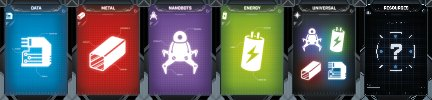
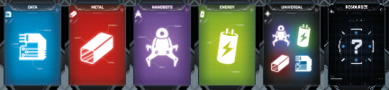
WIP

diff --git a/solarstorm-src.js b/solarstorm-src.js
@@ -306,7 +306,7 @@ define(['dojo', 'dojo/_base/declare', 'ebg/core/gamegui', 'ebg/counter', 'ebg/st
 
 		createResourceStock(el) {
 			const stock = new ebg.stock()
-			stock.create(this, el, 72, 100)
+			stock.create(this, el, 65, 90)
 			stock.setSelectionMode(1)
 			stock.extraClasses = 'ss-resource-card'
 			stock.setSelectionAppearance('class')
@@ -1374,7 +1374,7 @@ class SSRoom {
 			this.el.classList.remove('ss-shake')
 		}, 2000)
 	}
-	
+
 	setDestroyed(destroyed) {
 		this.destroyed = destroyed
 		this.el.classList[destroyed ? 'add' : 'remove']('ss-room-destroyed')
@@ -1481,7 +1481,7 @@ class SSPlayer {
 			'div',
 			{
 				class: 'ss-player-board__name ss-section-title',
-				innerHTML: `<span>${handName}</span>`,
+				innerHTML: `<span><span class="ss-player-meeple-icon ss-player-meeple-icon--order-${this.order}"></span>${handName}</span>`,
 			},
 			boardEl,
 		)
@@ -1489,10 +1489,14 @@ class SSPlayer {
 			'div',
 			{
 				class: 'ss-player-hand',
-				id: `ss-player-hand--${this.id}`,
-				style: { backgroundColor: `#${this.color}55` },
+				style: { backgroundColor: `#${this.color}55`, boxShadow: `#${this.color}55 0px 0px 4px 2px` },
 			},
 			this.boardEl,
+		)
+		this.handDeckEl = this.handEl = dojo.create(
+			'div',
+			{ class: 'ss-player-hand__deck', id: `ss-player-hand--${this.id}` },
+			this.handEl,
 		)
 		this.actionsTokensEl = dojo.create('div', { class: 'ss-player-board__action-tokens' }, boardEl)
 		dojo.create('div', { class: 'ss-player-board__action-tokens__token ss-action-token' }, this.actionsTokensEl)
@@ -1532,8 +1536,8 @@ class SSPlayer {
 
 	createStock() {
 		this.stock = new ebg.stock()
-		this.stock = this.gameObject.createResourceStock(this.handEl)
-		this.stock.setOverlap(30, 5)
+		this.stock = this.gameObject.createResourceStock(this.handDeckEl)
+		this.stock.setOverlap(30, 0)
 		this.gameObject.resourceTypes.forEach((type, index) => {
 			this.stock.addItemType(type.id, index, g_gamethemeurl + 'img/resources.jpg', index)
 		})

diff --git a/solarstorm.js b/solarstorm.js
@@ -317,7 +317,7 @@ define(['dojo', 'dojo/_base/declare', 'ebg/core/gamegui', 'ebg/counter', 'ebg/st
     //// Utility methods
     createResourceStock(el) {
       const stock = new ebg.stock();
-      stock.create(this, el, 72, 100);
+      stock.create(this, el, 65, 90);
       stock.setSelectionMode(1);
       stock.extraClasses = 'ss-resource-card';
       stock.setSelectionAppearance('class');
@@ -1594,15 +1594,19 @@ class SSPlayer {
     const handName = this.isCurrent() ? _('Your hand') : _('Hand of') + ` <span style="color: #${this.color}">${this.name}</span>`;
     const nameEl = dojo.create('div', {
       class: 'ss-player-board__name ss-section-title',
-      innerHTML: `<span>${handName}</span>`
+      innerHTML: `<span><span class="ss-player-meeple-icon ss-player-meeple-icon--order-${this.order}"></span>${handName}</span>`
     }, boardEl);
     this.handEl = dojo.create('div', {
       class: 'ss-player-hand',
-      id: `ss-player-hand--${this.id}`,
       style: {
-        backgroundColor: `#${this.color}55`
+        backgroundColor: `#${this.color}55`,
+        boxShadow: `#${this.color}55 0px 0px 4px 2px`
       }
     }, this.boardEl);
+    this.handDeckEl = this.handEl = dojo.create('div', {
+      class: 'ss-player-hand__deck',
+      id: `ss-player-hand--${this.id}`
+    }, this.handEl);
     this.actionsTokensEl = dojo.create('div', {
       class: 'ss-player-board__action-tokens'
     }, boardEl);
@@ -1634,8 +1638,9 @@ class SSPlayer {
 
   createStock() {
     this.stock = new ebg.stock();
-    this.stock = this.gameObject.createResourceStock(this.handEl);
-    this.stock.setOverlap(30, 5);
+    this.stock = this.gameObject.createResourceStock(this.handDeckEl);
+		this.stock.setSelectionMode(0);
+    this.stock.setOverlap(30, 0);
     this.gameObject.resourceTypes.forEach((type, index) => {
       this.stock.addItemType(type.id, index, g_gamethemeurl + 'img/resources.jpg', index);
     });

diff --git a/solarstorm.css b/solarstorm.css
@@ -321,8 +321,8 @@
 }
 
 .ss-resource-deck__deck {
-	width: 72px;
-	height: 100px;
+	width: 65px;
+	height: 90px;
 	background-image: url('img/resources.jpg');
 	background-position: 100% 0;
 	margin-right: 5px;
@@ -434,6 +434,32 @@
 	background-position: 0 100%;
 }
 
+.ss-player-meeple-icon {
+	background-image: url(img/meeples.png);
+	background-position: 0 0;
+	background-size: 100% 400%;
+	background-repeat: no-repeat;
+	width: 20px;
+	height: 20px;
+	display: inline-block;
+	filter: drop-shadow(1px 1px 1px rgba(255, 255, 255, 0.3)) drop-shadow(-1px -1px 1px rgba(255, 255, 255, 0.3))
+		drop-shadow(-1px 1px 1px rgba(255, 255, 255, 0.3)) drop-shadow(1px -1px 1px rgba(255, 255, 255, 0.3));
+	vertical-align: text-bottom;
+	margin-right: 5px;
+}
+.ss-player-meeple-icon--order-1 {
+	background-position: 0 0;
+}
+.ss-player-meeple-icon--order-2 {
+	background-position: 0 33%;
+}
+.ss-player-meeple-icon--order-3 {
+	background-position: 0 66%;
+}
+.ss-player-meeple-icon--order-4 {
+	background-position: 0 100%;
+}
+
 .ss-resource-reorder-dialog {
 	height: 0;
 	background: #ffffffcc;
@@ -493,6 +519,7 @@
 	height: 0px;
 	transition: all 1.3s ease-in-out;
 	text-align: center;
+	margin-left: 10px;
 }
 .ss-player-board__action-tokens.ss-visible {
 	opacity: 1;

diff --git a/solarstorm.game.php b/solarstorm.game.php
@@ -177,7 +177,7 @@ class SolarStorm extends Table {
 		$this->damageCards->createCards($cards, 'deck');
 	}
 
-	private function drawDamageCard(string $from, bool $notify = true): void {
+	private function drawDamageCard(string $from): void {
 		if (!in_array($from, ['top', 'bottom'])) {
 			throw new \Exception('Invalid position to draw damage card from');
 		}
@@ -185,21 +185,21 @@ class SolarStorm extends Table {
 		$cards = $this->damageCards->getCardsInLocation('deck', null, 'location_arg');
 		if ($from === 'bottom') {
 			$card = $cards[0];
+			$message = clienttranslate('Start of game: damage card drawn');
 		} else {
 			$card = $cards[count($cards) - 1];
+			$message = clienttranslate('End of turn: ${player_name} draws the next damage card');
 		}
 
 		$this->damageCards->insertCardOnExtremePosition($card['id'], 'discard', true);
-		if ($notify) {
-			$player = $this->ssPlayers->getActive();
-			$this->notifyAllPlayers(
-				'updateDamageDiscard',
-				'${player_name} draws the next damage card',
-				[
-					'cards' => [$card],
-				] + $player->getNotificationArgs()
-			);
-		}
+		$player = $this->ssPlayers->getActive();
+		$this->notifyAllPlayers(
+			'updateDamageDiscard',
+			$message,
+			[
+				'cards' => [$card],
+			] + $player->getNotificationArgs()
+		);
 
 		$roomsSlugs = $this->damageCardsInfos[$card['type']];
 		$updatedRooms = [];
@@ -213,7 +213,7 @@ class SolarStorm extends Table {
 				if ($room->getDamageCount() === 3) {
 					$room->setDestroyed(true);
 					$room->save();
-					$this->notifyAllPlayers('updateRooms', clienttranslate('The room ${roomName} receive fatal damage !'), [
+					$this->notifyAllPlayers('updateRooms', clienttranslate('${roomName} receive fatal damage !'), [
 						'rooms' => [$room->toArray() + ['shake' => true]],
 						'roomName' => $room->getSlug(),
 					]);
@@ -226,14 +226,14 @@ class SolarStorm extends Table {
 			$updatedRooms[] = $room->toArray() + ['shake' => true];
 		}
 
-		if (!empty($updatedRooms) && $notify) {
-			$this->notifyAllPlayers('updateRooms', clienttranslate('The room(s) ${roomNames} receive damage'), [
+		if (!empty($updatedRooms)) {
+			$this->notifyAllPlayers('updateRooms', clienttranslate('${roomNames} receive damage'), [
 				'rooms' => $updatedRooms,
 				'roomNames' => array_column($updatedRooms, 'slug'),
 			]);
 		}
-		if (!empty($protectedRooms) && $notify) {
-			$this->notifyAllPlayers('message', clienttranslate('The room(s) ${roomNames} were protected !'), [
+		if (!empty($protectedRooms)) {
+			$this->notifyAllPlayers('message', clienttranslate('${roomNames} were protected !'), [
 				'roomNames' => array_column($protectedRooms, 'slug'),
 			]);
 		}
@@ -1151,8 +1151,8 @@ class SolarStorm extends Table {
 		$playerTurnsCount = (int) self::getGameStateValue('playerTurnsCount');
 		if ($playerTurnsCount === 0) {
 			// First turn
-			$this->drawDamageCard('bottom', true);
-			$this->drawDamageCard('bottom', true);
+			$this->drawDamageCard('bottom');
+			$this->drawDamageCard('bottom');
 		}
 		self::setGameStateValue('playerTurnsCount', $playerTurnsCount + 1);
 
@@ -1245,7 +1245,7 @@ class SolarStorm extends Table {
 		$player->save();
 
 		// Draw damage card
-		$this->drawDamageCard('top', true);
+		$this->drawDamageCard('top');
 
 		$playerId = self::activeNextPlayer();
 		self::giveExtraTime($playerId);
@@ -1361,7 +1361,7 @@ class SolarStorm extends Table {
 	 * Draw a damage card
 	 */
 	public function debugDrawDamage() {
-		$this->drawDamageCard('top', true);
+		$this->drawDamageCard('top');
 	}
 
 	/**
